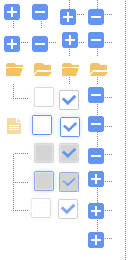
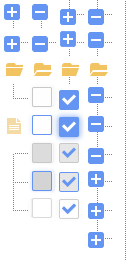
splice for data

diff --git a/src/components/page/setting/qualityMeasure.vue b/src/components/page/setting/qualityMeasure.vue
@@ -25,8 +25,8 @@
                 </el-row>
             </div>
             <el-table class="quality-table" :data="tableData.result" style="width: 100%"  :default-sort="{prop: 'date', order: 'descending'}"  height="calc(100vh - 380px)" >
-                <el-table-column width="50" type="selection" id="processId">
-                </el-table-column>
+               <!-- <el-table-column width="50" type="selection" id="processId">
+                </el-table-column>-->
                 <el-table-column label="序号" width="80" type="index" >
                 </el-table-column>
                 <el-table-column prop="processName" width="" label="流程名称" sortable>
@@ -62,7 +62,7 @@
                 </el-col>
                 <el-col :span="6">
                     <span class="BMP-text">流程名称：</span>
-                    <el-input placeholder="请输入内容" v-model="flowName" style="width:40%;height:100px;"   :maxlength="10"></el-input>
+                    <el-input placeholder="请输入内容" v-model="flowName" style="width:40%;height:100px;" @blur="messageValTips"></el-input>
                 </el-col>
                 <el-col :span="18">
                     <span class="BMP-text"  style="display:inline-block;vertical-align: top">备注：</span>
@@ -235,7 +235,7 @@
                 <el-col class="BMP-btns">
                     <el-button v-show="isLinkResult" type="primary" :disabled="true">确定</el-button>
                     <el-button v-show="!isLinkResult" type="primary" @click="eidtBMPok">确定</el-button>
-                    <el-button @click="eidtBMPcancel">取消</el-button>
+                    <el-button type="default" @click="eidtBMPcancel">取消</el-button>
                 </el-col>
             </el-row>
         </div>
@@ -331,7 +331,7 @@
             <ul class="ztree" id="lineTree"></ul>
             <div class="quality-dialog-footer">
                 <el-button type="primary" @click="formModelLinkOk">确定</el-button>
-                <el-button type="primary" @click="linkTree=false,dialogFormVisible=true">取消</el-button>
+                <el-button type="default" @click="linkTree=false,dialogFormVisible=true">取消</el-button>
             </div>
             <!--<ul class="ztree" id="lineTree"></ul>-->
         </div>
@@ -404,6 +404,7 @@ let getFormPreviewParams ={
 let  isChecked = 0;
 let nodes;
 let checkedCount = 0;
+let errorMessage = false;
 import "static/css/setting-qualityMeasure.css";
 //import "static/js/ztree/css/zTreeStyle_new.css";
 //    import "static/ztree/css/demo.css";
@@ -488,6 +489,7 @@ export default {
             linkTree: false,
             flowName: "",//流程名称
             flowRemark:"",//备注名称
+            stepNameEdit:"",
             checkTrue: false,
             modelList:"",
             //关联表单模板
@@ -542,16 +544,21 @@ export default {
                 confirmButtonText: '确定',
             });
         },
-        messageTips(message) {
-            if(message.length>10){
-                this.$message({
-                    message: '请输入10个字符以内，超出部分不生效',
-                    type: 'warning'
-                });
-                console.log(this.flowName);
-                this.flowName = this.flowName.substr(0,10);
+        messageTips() {
+            this.$message({
+                message: '请输入10个字符以内，超出部分不生效',
+                type: 'warning'
+            });
+        },
+        messageValTips(){
+            if(this.flowName.length>10){
+                this.messageTips();
+                this.flowName =this.flowName.substr(0,10);
             }
-
+            if(this.flowNameEdit.length>10){
+                this.messageTips();
+                this.flowNameEdit =this.flowNameEdit.substr(0,10);
+            }
         },
         getData(tableParam){//默认数据
             //表单列表
@@ -964,6 +971,7 @@ export default {
             })
         },
         flowNameAlert() {//流程名称弹窗
+            errorMessage = true;
             this.$confirm('未填写流程名称,请返回输入流程名称?', '保存提示', {
                 confirmButtonText: '确定',
                 cancelButtonText: '取消',
@@ -975,6 +983,7 @@ export default {
             });
         },
         addRulesRoot() {//流程步骤弹窗
+            errorMessage = true;
             this.$confirm('未设置流程步骤,请返回流程步骤?', '保存提示', {
                 confirmButtonText: '确定',
                 cancelButtonText: '取消',
@@ -1025,34 +1034,38 @@ export default {
             list.remark = this.flowRemark;
             list.processName = this.flowName;
 
-            let tootipsAlert = this.flowNameAlert;
-            if (!this.flowName.length) {
-                this.flowNameAlert();
-            }
+            let tootipsAlert = this.addRulesRoot;
             let rolesId = this.rootInfo;
             list.steps =[];//清空步骤  避免重复
-            $('.table-step tbody tr').map(function (i,val) {
-                listParams = {};
+            if (!this.flowName.length) {
+                this.flowNameAlert();
+            }else{
+                $('.table-step tbody tr').map(function (i,val) {
+                    listParams = {};
 
-                if ($(this).find('input').val() && $(this).find('.addRoot').length == 0) {
-                    tootipsAlert();
-                } else if (!($(this).find('input').val()) && $(this).find('.addRoot').length != 0) {
-                    tootipsAlert();
-                } else if ($(this).find('input').val() && $(this).find('.addRoot').length != 0) {
-                    listParams.roleIds = rolesId[i].listRolesId;
-                    listParams.stepName = $(this).find('input').val();
-                    if($(this).find('input[icon=caret-top]').val()=='全部'){
-                        listParams.isAll = true;
+                    if ($(this).find('input').val() && $(this).find('.addRoot').length == 0) {
+                        tootipsAlert();
+                    } else if (!($(this).find('input').val()) && $(this).find('.addRoot').length != 0) {
+                        tootipsAlert();
+                    } else if ($(this).find('input').val() && $(this).find('.addRoot').length != 0) {
+                        listParams.roleIds = rolesId[i].listRolesId;
+                        listParams.stepName = $(this).find('input').val();
+                        if($(this).find('input[icon=caret-top]').val()=='全部'){
+                            listParams.isAll = true;
+                        }else{
+                            listParams.isAll = false;
+                        }
+                        if(list.steps.indexOf(listParams)){
+                            list.steps.push(listParams);
+                        }
+                        errorMessage = false;
                     }else{
-                        listParams.isAll = false;
+                        self.messageBox('请填写至少一条步骤信息')
                     }
-                    if(list.steps.indexOf(listParams)){
-                        list.steps.push(listParams);
-                    }
-                }
 
-            });
-            if(list.steps.length>0){
+                });
+            }
+            if(!errorMessage){
                 addProcessInfo(list).then((res)=>{//添加流程
 
                     this.flowName ="";
@@ -1066,7 +1079,7 @@ export default {
                         this.messageBox(error.response.data.message);
                      })
                     for(var key in this.rootInfo){//清除原始数据
-                        console.info(this.rootInfo,'添加工程最终数据')
+//                        console.info(this.rootInfo,'添加工程最终数据')
                         this.rootInfo[key].addRolesLine =[ ];
                         this.rootInfo[key].listVal ="";
                         this.rootInfo[key].isStepDisable = false;
@@ -1079,18 +1092,18 @@ export default {
                     self.messageBox(error.response.data.message)
                 });
 
-            }else{
-                self.messageBox('请填写有效的信息')
             }
+          /*  else{
+                self.messageBox('请填写有效的信息')
+            }*/
         },
         //树结构字段处理
         zTreeFiledProcess(getFormProcessParams){
             getFormInfosForProcess(getFormProcessParams).then((res)=>{
                 checkedCount = 0;
                 //console.info(res.data,'树结构数据')
-                this.zNodes = res.data.splice(1,20);
+                this.zNodes = res.data;
                 for(var i= 0;i<this.zNodes.length;i++){
-                    //debugger;
                     if(!(this.zNodes[i].checked) && this.zNodes[i].isForm){
                         checkedCount++;
                     }

diff --git a/src/components/page/setting/formManage.vue b/src/components/page/setting/formManage.vue
@@ -77,8 +77,9 @@
                         </div>
                     </div>
                     <div class="form-dialog-footer" >
-                        <el-button @click="isSingForm=false,changeFormVisible=false" >取 消</el-button>
+
                         <el-button type="primary" @click="isSingForm=false,changeFormVisible=false">确 定</el-button>
+                        <el-button @click="isSingForm=false,changeFormVisible=false" >取 消</el-button>
                     </div>
                 </div>
             <!--多层树结构模板-->
@@ -91,8 +92,9 @@
                         <ul class="ztree" id="formTree" ></ul>
                     </div>
                     <div class="form-dialog-footer">
-                        <el-button @click="isDoubForm=false,changeFormVisible = false" >取 消</el-button>
+
                         <el-button type="primary" @click="isDoubForm=false,changeFormVisible = false">确 定</el-button>
+                        <el-button @click="isDoubForm=false,changeFormVisible = false" >取 消</el-button>
                     </div>
                 </div>
             </div>

diff --git a/static/js/ztree/css/zTreeStyle_new.css b/static/js/ztree/css/zTreeStyle_new.css
@@ -138,7 +138,7 @@ website:	http://code.google.com/p/jquerytree/
 }
 
 .ztree li span.button.chk.checkbox_false_full_focus {
-	background-position: -30px -113px
+	background-position: -32px -113px
 }
 
 .ztree li span.button.chk.checkbox_false_part {
@@ -150,15 +150,15 @@ website:	http://code.google.com/p/jquerytree/
 }
 
 .ztree li span.button.chk.checkbox_false_disable {
-    background-position: -34px -139px;
+    background-position: -32px -139px;
 }
 
 .ztree li span.button.chk.checkbox_true_full {
-	background-position: -57px -88px
+	background-position: -59px -88px
 }
 
 .ztree li span.button.chk.checkbox_true_full_focus {
-	background-position: -58px -115px
+	background-position: -59px -115px
 }
 
 .ztree li span.button.chk.checkbox_true_part {

diff --git a/static/css/setting-qualityMeasure.css b/static/css/setting-qualityMeasure.css
@@ -70,7 +70,7 @@
 }
 
 .quality-page .quality-table.el-table tbody td span.icon:nth-child(1){
-    background-position: -202px -106px;
+    background-position: -203px -103px;
 }
 .quality-page .quality-table.el-table tbody td span.icon:nth-child(2){
     background-position:-182px -78px;
@@ -337,7 +337,7 @@
     width: 22px;
     height: 22px;
     background:url('../../static/js/ztree/css/img/zTreeStandard1.png') no-repeat -32px -90px;
-    background-position: -57px -89px;
+    background-position: -58px -89px;
 
 }
 .content #checkAllTrue,.content #checkAllFalse{
